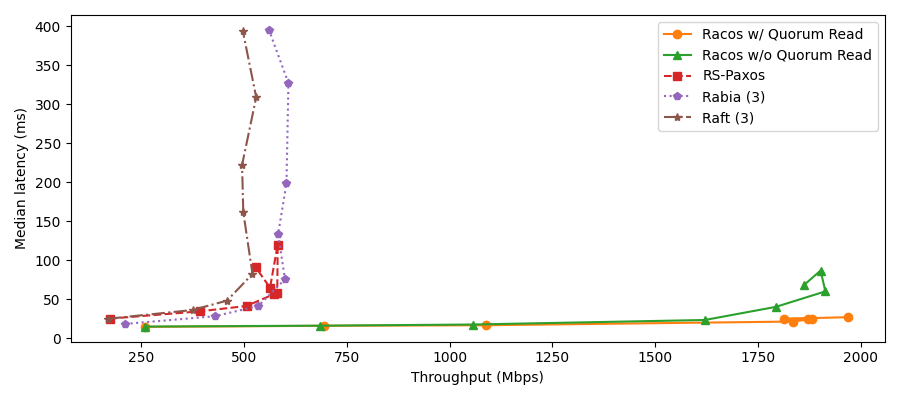
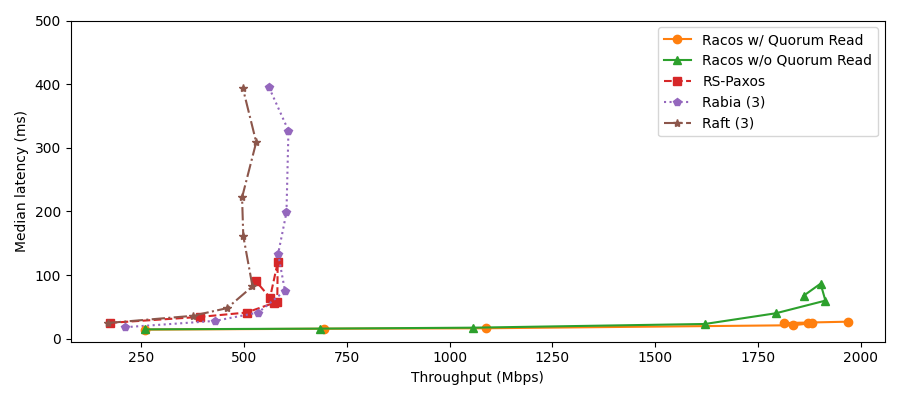
some changes

diff --git a/plotting.py b/plotting.py
@@ -389,7 +389,7 @@ def scalability_13_half_write_half_read() -> None:
   pyplot.ylabel('Throughput (Mbps)')
   pyplot.legend(handles = [pyplot.Rectangle((0,0), 1, 1, facecolor = 'C1', label='Racos w/ Quorum Read'), pyplot.Rectangle((0,0), 1, 1, facecolor = 'C2', label='Racos w/o Quorum Read'), pyplot.Rectangle((0,0), 1, 1, facecolor = 'C3', label = 'RS-Paxos'), pyplot.Rectangle((0,0), 1, 1, facecolor = 'C4', label = 'Rabia'), pyplot.Rectangle((0,0), 1, 1, facecolor = 'C5', label = 'Raft'), pyplot.Rectangle((0,0), 1, 1, facecolor = 'none', label = 'No coding'), pyplot.Rectangle((0,0), 1, 1, facecolor = 'none', hatch = '|||', label = '(3, 2) coding'), pyplot.Rectangle((0,0), 1, 1, facecolor = 'none', hatch = '///', label = '(4, 2) coding'), pyplot.Rectangle((0,0), 1, 1, facecolor = 'none', hatch = '---', label = '(3, 4) coding'), pyplot.Rectangle((0,0), 1, 1, facecolor = 'none', hatch = '\\\\\\', label = '(5, 2) coding')], loc = 'upper left', ncols = 5)
   pyplot.tight_layout()
-  pyplot.savefig('plots/scalability-1.3-half_write_half_read/nodes-throughput-half_write_half_read.png')
+  pyplot.savefig('plots/scalability-1.3-half_write_half_read/nodes-throughput-half_write_half_read-1.3.png')
 
   pyplot.figure(figsize = (10, 4))
   pyplot.bar(-.08, data_getter(plot_data, 'rabia', 4, 'med_latency'), .16, color = 'C4')
@@ -446,7 +446,7 @@ def scalability_13_half_write_half_read() -> None:
   pyplot.ylabel('Latency (ms)')
   pyplot.legend(handles = [pyplot.Rectangle((0,0), 1, 1, facecolor = 'C1', label='Racos w/ Quorum Read'), pyplot.Rectangle((0,0), 1, 1, facecolor = 'C2', label='Racos w/o Quorum Read'), pyplot.Rectangle((0,0), 1, 1, facecolor = 'C3', label = 'RS-Paxos'), pyplot.Rectangle((0,0), 1, 1, facecolor = 'C4', label = 'Rabia'), pyplot.Rectangle((0,0), 1, 1, facecolor = 'C5', label = 'Raft'), pyplot.Rectangle((0,0), 1, 1, facecolor = 'none', label = 'No coding'), pyplot.Rectangle((0,0), 1, 1, facecolor = 'none', hatch = '|||', label = '(3, 2) coding'), pyplot.Rectangle((0,0), 1, 1, facecolor = 'none', hatch = '///', label = '(4, 2) coding'), pyplot.Rectangle((0,0), 1, 1, facecolor = 'none', hatch = '---', label = '(3, 4) coding'), pyplot.Rectangle((0,0), 1, 1, facecolor = 'none', hatch = '\\\\\\', label = '(5, 2) coding')], loc = 'upper left', ncols = 5)
   pyplot.tight_layout()
-  pyplot.savefig('plots/scalability-1.3-half_write_half_read/nodes-latency-half_write_half_read.png')
+  pyplot.savefig('plots/scalability-1.3-half_write_half_read/nodes-latency-half_write_half_read-1.3.png')
 
 def scalability_6667_5_write_95_read() -> None:
   '''creates all configured plots from the data found in `data/scalability-666.7-5_write_95_read`'''
@@ -475,7 +475,7 @@ def scalability_6667_5_write_95_read() -> None:
   pyplot.ylabel('Throughput (Mbps)')
   pyplot.legend(handles = [pyplot.Rectangle((0,0), 1, 1, facecolor = 'C1', label='Racos w/ Quorum Read'), pyplot.Rectangle((0,0), 1, 1, facecolor = 'C2', label='Racos w/o Quorum Read'), pyplot.Rectangle((0,0), 1, 1, facecolor = 'C3', label = 'RS-Paxos'), pyplot.Rectangle((0,0), 1, 1, facecolor = 'C4', label = 'Rabia'), pyplot.Rectangle((0,0), 1, 1, facecolor = 'C5', label = 'Raft'), pyplot.Rectangle((0,0), 1, 1, facecolor = 'none', label = 'No coding'), pyplot.Rectangle((0,0), 1, 1, facecolor = 'none', hatch = '|||', label = '(3, 2) coding'), pyplot.Rectangle((0,0), 1, 1, facecolor = 'none', hatch = '///', label = '(4, 2) coding'), pyplot.Rectangle((0,0), 1, 1, facecolor = 'none', hatch = '---', label = '(3, 4) coding'), pyplot.Rectangle((0,0), 1, 1, facecolor = 'none', hatch = '\\\\\\', label = '(5, 2) coding')], loc = 'upper left', ncols = 5)
   pyplot.tight_layout()
-  pyplot.savefig('plots/scalability-666.7-5_write_95_read/nodes-throughput-5_write_95_read.png')
+  pyplot.savefig('plots/scalability-666.7-5_write_95_read/nodes-throughput-5_write_95_read-666.7.png')
 
   pyplot.figure(figsize = (10, 4))
   pyplot.bar(-.08, data_getter(plot_data, 'rabia', 4, 'med_latency'), .16, color = 'C4')
@@ -532,7 +532,7 @@ def scalability_6667_5_write_95_read() -> None:
   pyplot.ylabel('Latency (ms)')
   pyplot.legend(handles = [pyplot.Rectangle((0,0), 1, 1, facecolor = 'C1', label='Racos w/ Quorum Read'), pyplot.Rectangle((0,0), 1, 1, facecolor = 'C2', label='Racos w/o Quorum Read'), pyplot.Rectangle((0,0), 1, 1, facecolor = 'C3', label = 'RS-Paxos'), pyplot.Rectangle((0,0), 1, 1, facecolor = 'C4', label = 'Rabia'), pyplot.Rectangle((0,0), 1, 1, facecolor = 'C5', label = 'Raft'), pyplot.Rectangle((0,0), 1, 1, facecolor = 'none', label = 'No coding'), pyplot.Rectangle((0,0), 1, 1, facecolor = 'none', hatch = '|||', label = '(3, 2) coding'), pyplot.Rectangle((0,0), 1, 1, facecolor = 'none', hatch = '///', label = '(4, 2) coding'), pyplot.Rectangle((0,0), 1, 1, facecolor = 'none', hatch = '---', label = '(3, 4) coding'), pyplot.Rectangle((0,0), 1, 1, facecolor = 'none', hatch = '\\\\\\', label = '(5, 2) coding')], loc = 'upper left', ncols = 5)
   pyplot.tight_layout()
-  pyplot.savefig('plots/scalability-666.7-5_write_95_read/nodes-latency-5_write_95_read.png')
+  pyplot.savefig('plots/scalability-666.7-5_write_95_read/nodes-latency-5_write_95_read-666.7.png')
 
 def scalability_6667_half_write_half_read() -> None:
   '''creates all configured plots from the data found in `data/scalability-666.7-half_write_half_read`'''
@@ -628,7 +628,7 @@ def scalability_2000_half_write_half_read() -> None:
   pyplot.ylabel('Latency (ms)')
   pyplot.legend(handles = BAR_LEGEND_READ, loc = 'upper left')
   pyplot.tight_layout()
-  pyplot.savefig('plots/scalability-2000.0-half_write_half_read/latency-half_write_half_read-loss_.01.png')
+  pyplot.savefig('plots/scalability-2000.0-half_write_half_read/latency-half_write_half_read-loss.1.png')
 
   pyplot.figure(figsize = (10, 4))
   pyplot.bar(0, data.loc[data['alg'] == 'racos']['ops'].mean() * 16, .9, color = 'C1')
@@ -640,7 +640,7 @@ def scalability_2000_half_write_half_read() -> None:
   pyplot.ylabel('Throughput (Mbps)')
   pyplot.legend(handles = BAR_LEGEND_READ, loc = 'upper right')
   pyplot.tight_layout()
-  pyplot.savefig('plots/scalability-2000.0-half_write_half_read/throughput-half_write_half_read-loss_.01.png')
+  pyplot.savefig('plots/scalability-2000.0-half_write_half_read/throughput-half_write_half_read-loss.1.png')
 
 def threads_discrete_5_write_95_read() -> None:
   '''creates all configured plots from the data in `data/threads-discrete-5_write_95_read`'''
@@ -674,6 +674,7 @@ def threads_discrete_half_write_half_read() -> None:
   pyplot.figure(figsize = DIMENSIONS)
   for alg, group in data.groupby(['alg', 'unit_size'])[['ops', 'med_latency']].mean().reset_index().groupby('alg'):
     pyplot.plot(group['ops'] * 5.3336, group['med_latency'] / 1000, marker = ALG_VANITY[alg][2], linestyle = ALG_VANITY[alg][3], color = ALG_VANITY[alg][0])
+  pyplot.ylim(top = 500)
   pyplot.xlabel('Throughput (Mbps)')
   pyplot.ylabel('Median latency (ms)')
   pyplot.legend(handles = LINE_LEGEND_READ, loc = 'upper right')
@@ -683,6 +684,7 @@ def threads_discrete_half_write_half_read() -> None:
   pyplot.figure(figsize = DIMENSIONS)
   for alg, group in data.groupby(['alg', 'unit_size'])[['ops', 'p99_latency']].mean().reset_index().groupby('alg'):
     pyplot.plot(group['ops'] * 5.3336, group['p99_latency'] / 1000, marker = ALG_VANITY[alg][2], linestyle = ALG_VANITY[alg][3], color = ALG_VANITY[alg][0])
+  pyplot.ylim(top = 1700)
   pyplot.xlabel('Throughput (Mbps)')
   pyplot.ylabel('P99 latency (ms)')
   pyplot.legend(handles = LINE_LEGEND_READ, loc = 'upper right')
@@ -721,6 +723,7 @@ def threads_light_half_write_half_read() -> None:
   pyplot.figure(figsize = DIMENSIONS)
   for alg, group in data.groupby(['alg', 'unit_size'])[['ops', 'med_latency']].mean().reset_index().groupby('alg'):
     pyplot.plot(group['ops'] * 5.3336, group['med_latency'] / 1000, marker = ALG_VANITY[alg][2], linestyle = ALG_VANITY[alg][3], color = ALG_VANITY[alg][0])
+  pyplot.ylim(top = 500)
   pyplot.xlabel('Throughput (Mbps)')
   pyplot.ylabel('Median latency (ms)')
   pyplot.legend(handles = LINE_LEGEND_READ, loc = 'upper right')
@@ -730,6 +733,7 @@ def threads_light_half_write_half_read() -> None:
   pyplot.figure(figsize = DIMENSIONS)
   for alg, group in data.groupby(['alg', 'unit_size'])[['ops', 'p99_latency']].mean().reset_index().groupby('alg'):
     pyplot.plot(group['ops'] * 5.3336, group['p99_latency'] / 1000, marker = ALG_VANITY[alg][2], linestyle = ALG_VANITY[alg][3], color = ALG_VANITY[alg][0])
+  pyplot.ylim(top = 1700)
   pyplot.xlabel('Throughput (Mbps)')
   pyplot.ylabel('P99 latency (ms)')
   pyplot.legend(handles = LINE_LEGEND_READ, loc = 'upper right')
@@ -737,7 +741,5 @@ def threads_light_half_write_half_read() -> None:
   pyplot.savefig('plots/threads-light-half_write_half_read/throughput-p99_latency-half_write_half_read-light.png')
 
 if __name__ == '__main__':
-  scalability_13_half_write_half_read()
-  scalability_2000_half_write_half_read()
-  scalability_6667_5_write_95_read()
-  scalability_6667_half_write_half_read()
+  threads_discrete_half_write_half_read()
+  threads_light_half_write_half_read()
